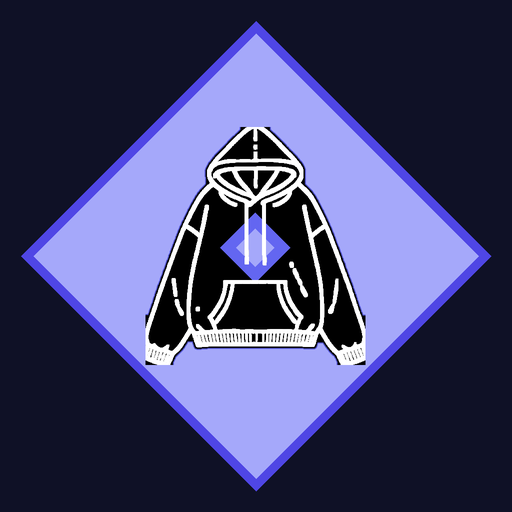
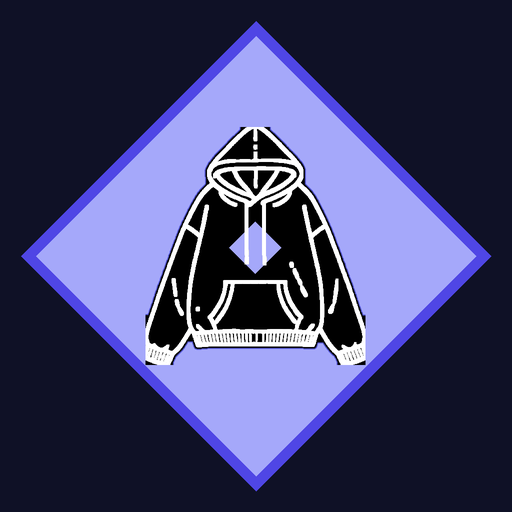
アイコン: ひし形を3段にする（枠・服を囲む薄紫・服の中の小さなひし形）
服の中の二重ひし形を1つにして、4段から3段へ。2段目は服より11だけ大きい(半径440、服の端429)。
3段目は半径70→52に小さく。色は過去と同じ。?v=12。

diff --git a/index.html b/index.html
@@ -8,7 +8,7 @@
     <meta name="robots" content="noindex, nofollow">
     <title>ARELM</title>
     <link rel="stylesheet" href="css/style.css">
-    <link rel="manifest" href="manifest.json?v=11">
+    <link rel="manifest" href="manifest.json?v=12">
     <meta name="theme-color" content="#0f172a">
 
     <!-- iOS（iPhone・iPad）でホーム画面に追加したときの設定 -->
@@ -16,9 +16,9 @@
     <meta name="apple-mobile-web-app-status-bar-style" content="black-translucent">
     <meta name="apple-mobile-web-app-title" content="ARELM">
     <!-- アイコンはMacのアプリと同じ絵、名前は「ARELM」に、全端末で揃える。?v= は、各端末が古いアイコンを使い続けないため -->
-    <link rel="apple-touch-icon" sizes="180x180" href="images/apple-touch-icon.png?v=11">
-    <link rel="apple-touch-icon" sizes="512x512" href="images/icon-512x512.png?v=11">
-    <link rel="icon" type="image/png" sizes="192x192" href="images/icon-any-192x192.png?v=11">
+    <link rel="apple-touch-icon" sizes="180x180" href="images/apple-touch-icon.png?v=12">
+    <link rel="apple-touch-icon" sizes="512x512" href="images/icon-512x512.png?v=12">
+    <link rel="icon" type="image/png" sizes="192x192" href="images/icon-any-192x192.png?v=12">
 </head>
 <body>
     <div id="login-screen" class="login-screen">
